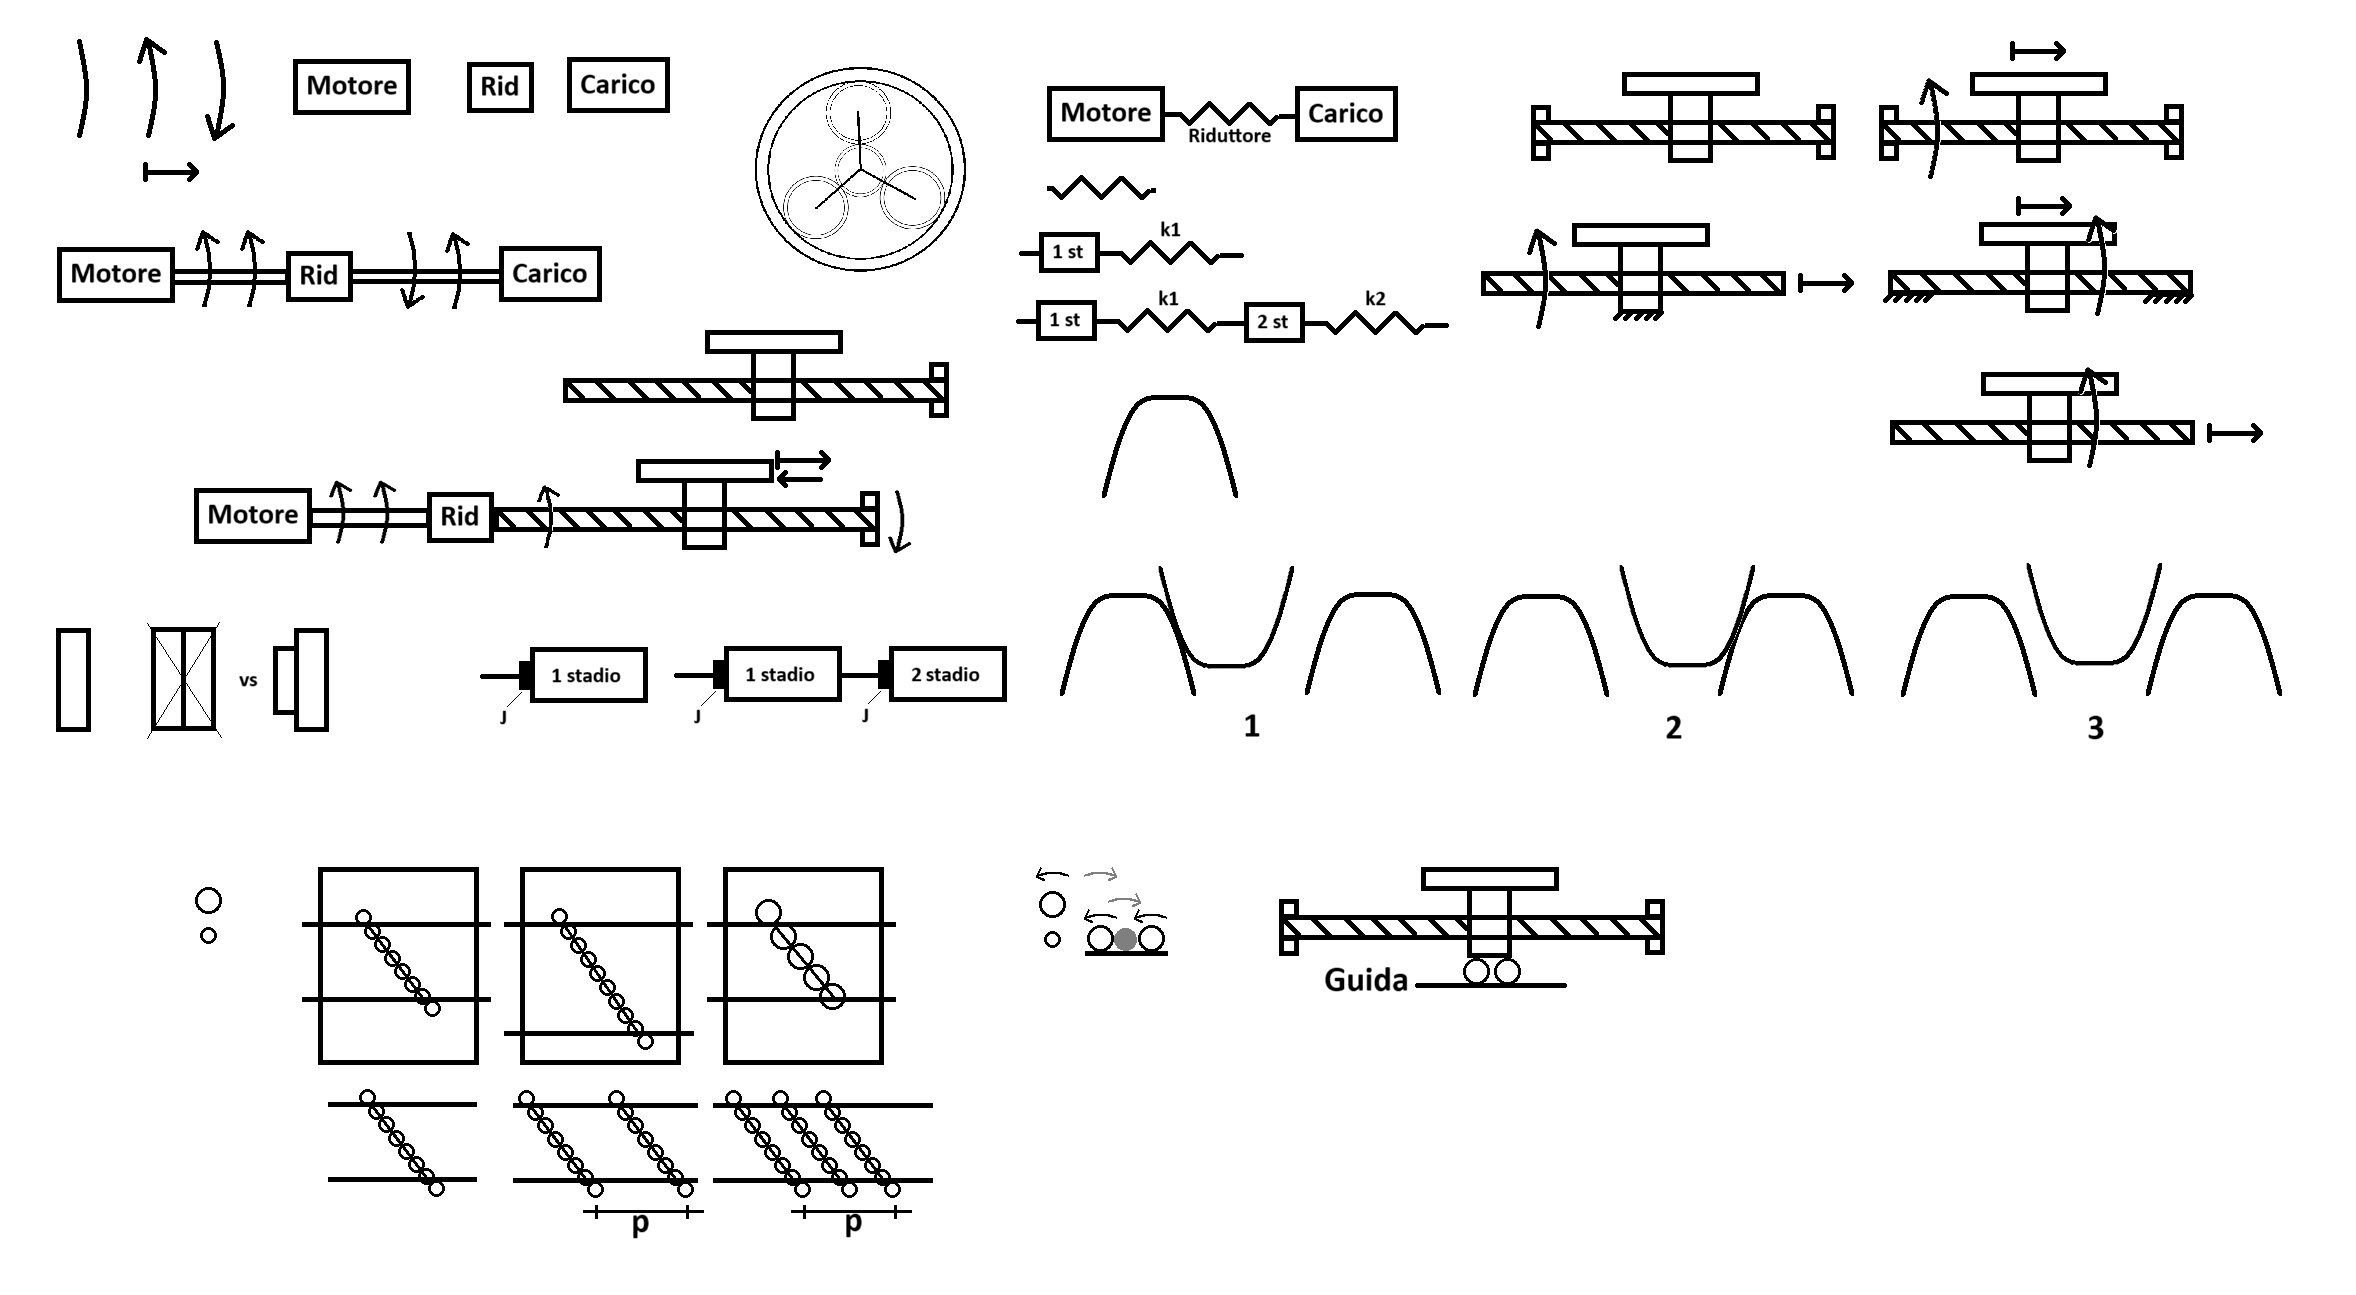
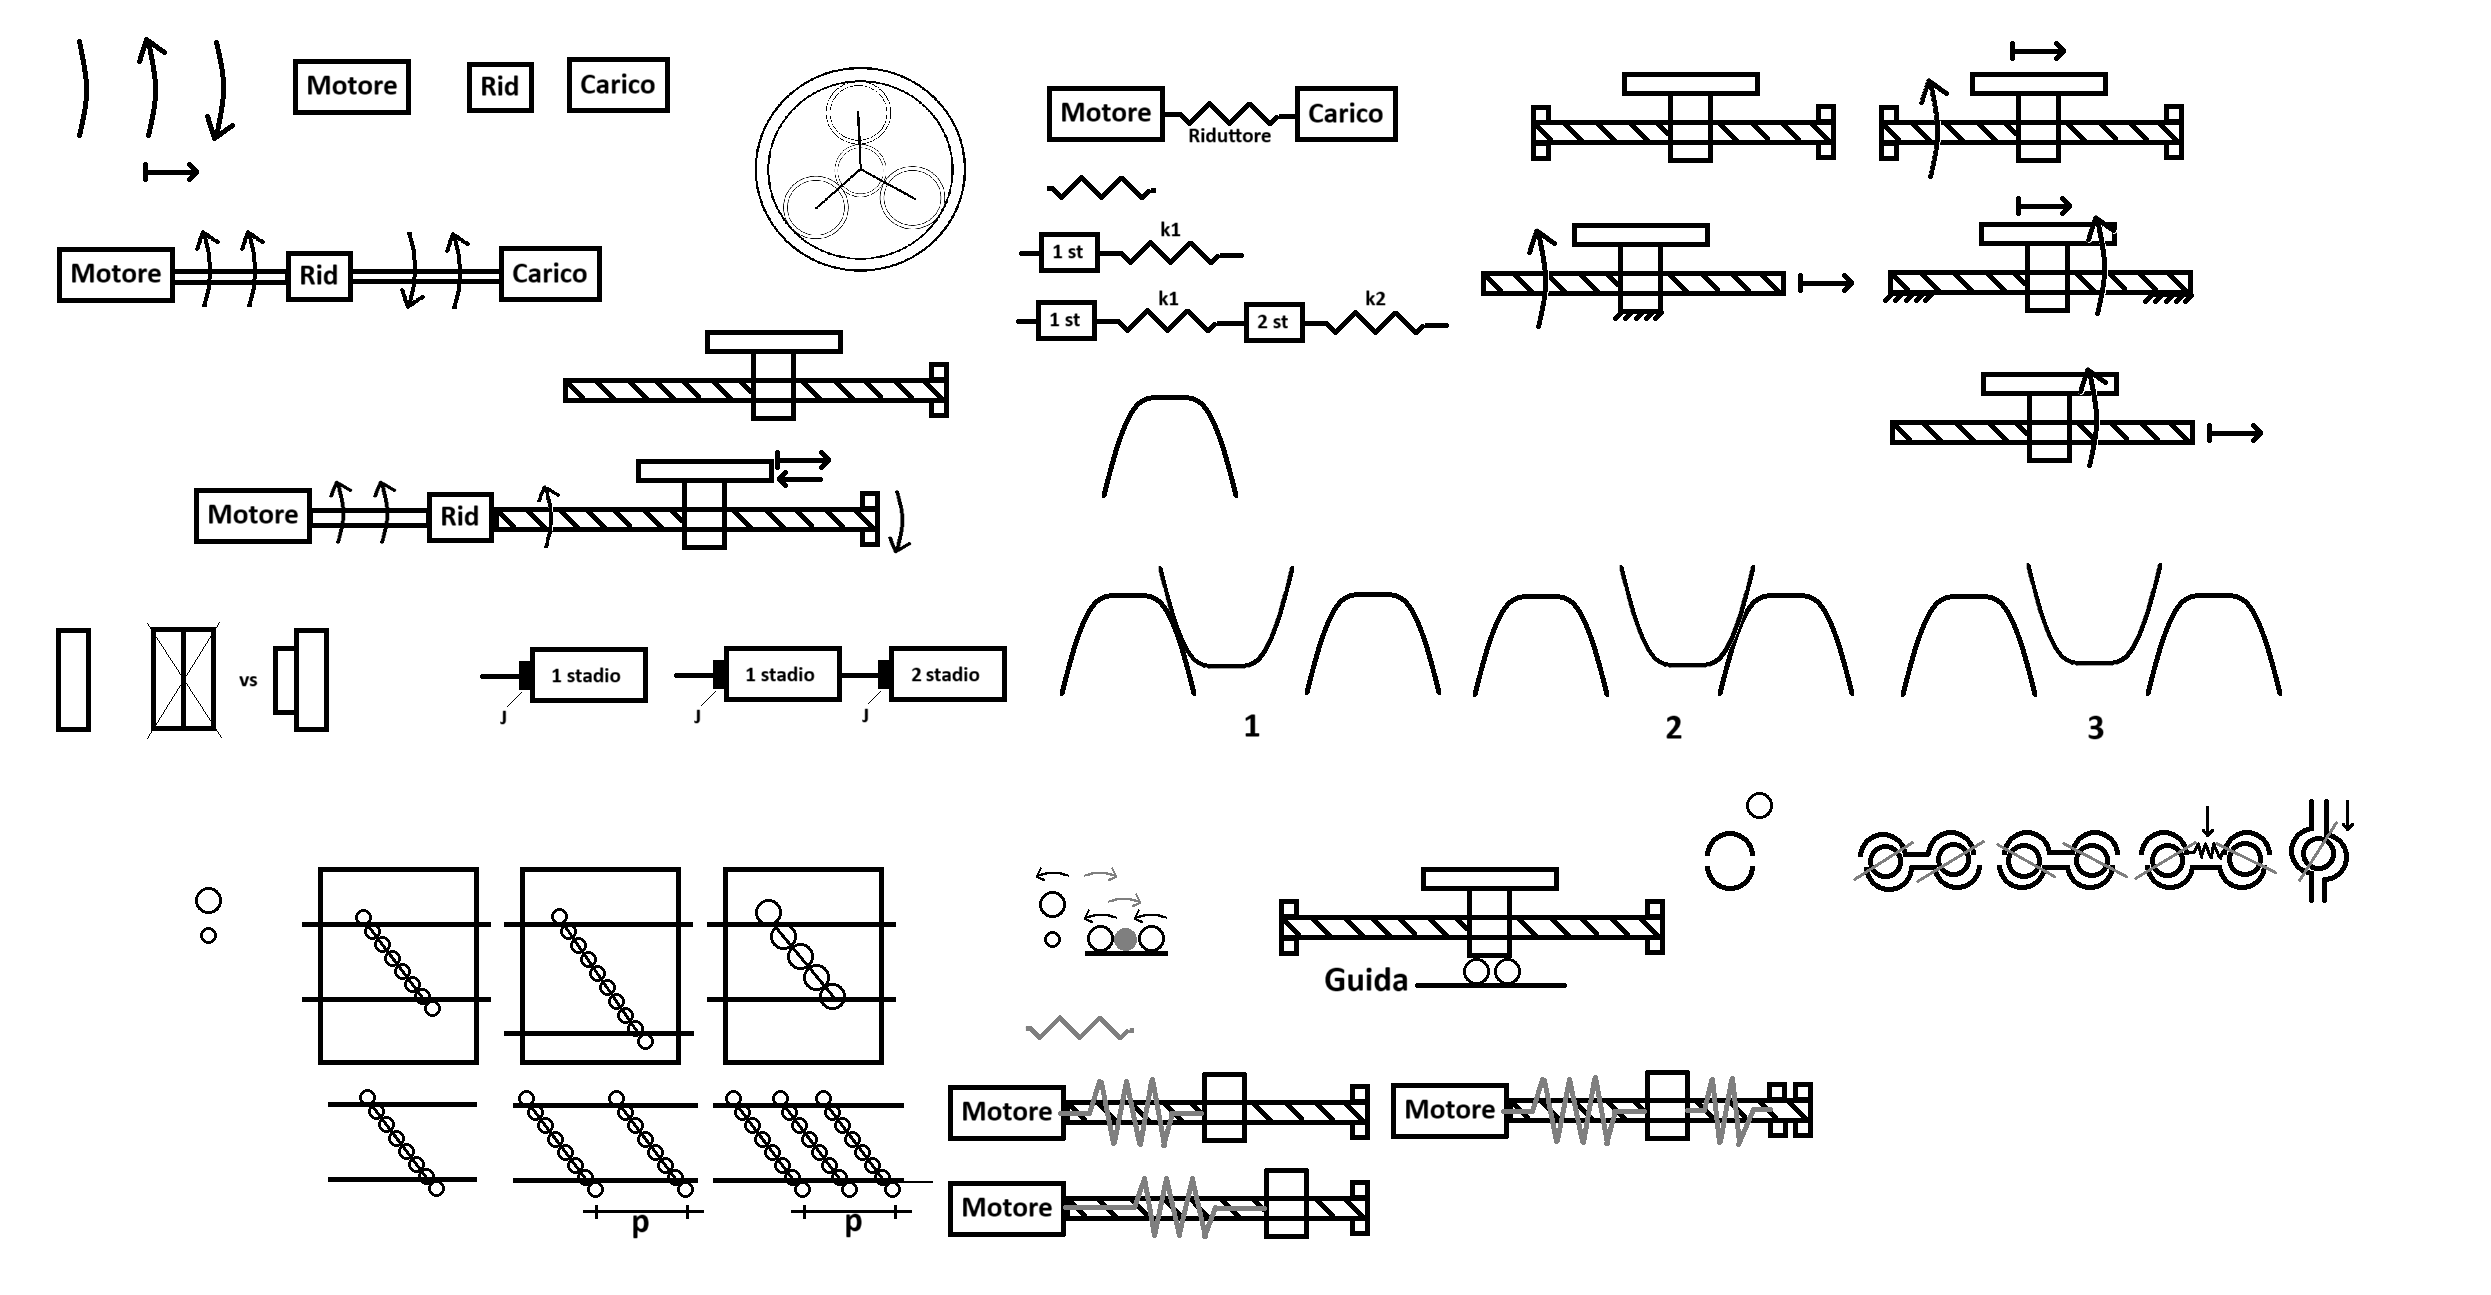
Aggiunte immagini relative a lezioni 11, aggiunto file appendice su main.tex, aggiunto comando per accelerazione assiale su miaclasse

diff --git a/Sottofile/DimensionamentoSceltaViti.tex b/Sottofile/DimensionamentoSceltaViti.tex
@@ -176,7 +176,11 @@ In questo caso la vite viene divisa in due molle equivalenti poste in parallelo,
 La rigidezza ha massimo in corrispondenza di \( K_\text{ass,vite}^\text{max} (x=0,L_v) \rightarrow \infty \), nota bene che se questa rigidezza è infinita, nel calcolo della rigidezza equivalente per il modello a 2gdl i parametri prima ritenuti trascurabili non potranno più esserlo.
 La rigidezza ha minimo in corrispondenza di \(K_\text{ass,vite}^\text{min} = \frac{4EA}{L_v} \).
 
-% inserire immagine esempio rigidezza assiale con unico vincolo e doppio vincolo
+\begin{figure}[h]
+    \centering
+    \includegraphics[width=0.6\textwidth]{Immagini/rigidezza_ass_1vs2_vincoli.png}
+    \caption{Rigidezza per vincoli assiali: unico a sx, doppio a dx}
+\end{figure}
 
 \paragrafo{Usare rigidezza equivalente:}
 Il valore di \(K_eq\) di per sè non crea problemi, tuttavia considerando il modello a 2 gdl e considerando il motore incastrato, si otterrà una pulsazione di antirisonanza \(\omega_z = \sqrt{\frac{K_{eq}}{M_{eq}}}\) relativa alla funzione di trasferimento data da \( \frac{\Theta(s)}{C_m(s)} \).
@@ -193,8 +197,11 @@ Per verificare staticamente una vite si utilizzano due verifiche:
 \end{itemize}
 Tuttavia le verifiche statiche sono meno severe delle verifiche dinamiche, il vincolo che si può trovare in termini di diametro minimo esclude una area di grafico già esclusa dalla velocità critica della vite.
 
-
-% inserire grafico contributi di rigidezza assiale e complessivi di vincoli
+\begin{figure}[h]
+    \centering
+    \includegraphics[width=0.5\textwidth]{Immagini/vincolo_antirisonanza.png}
+    \caption{Rappresentazione vincolo p,d per antirisonanza sx, grafico di tutti i vincoli dx}
+\end{figure}
 
 \sottosezione{Gioco Assiale}
 Prima ancora della scelta di p, d è opportuno scegliere il gioco, che tipicamente è indipendente da p,d perciò nei cataloghi è in sezione a sè stante.
@@ -208,5 +215,8 @@ Utilizzo di Precarico o Shift di passo, in questo caso va introdotto un certo \(
 
 In alcuni casi il sistema è precaricato per configurazione, per esempio quando la vite è posta verticalmente.
 
-
-% inserire figura esempio per gioco e precarico verticale
+\begin{figure}[h]
+    \centering
+    \includegraphics[width=0.4\textwidth]{Immagini/gioco_viti_ricircolo.png}
+    \caption{Gioco nelle viti fig 1,2; precarico fig 3,4}
+\end{figure}

diff --git a/main.tex b/main.tex
@@ -32,7 +32,7 @@
 
 %Roba per il titolo
 \titolo{Appunti di Controllo dei Sistemi Meccanici}
-\autore{Tiziano Costa}
+\autore{Bozza, non condividere}
 %comando della miaclasse per il titolo
 \primapag
 
@@ -44,8 +44,8 @@
 
 
 %se voglio posso mettere l'indice togliendo le percentuali
-%\renewcommand*\contentsname{Indice}
-%\tableofcontents
+\renewcommand*\contentsname{Indice}
+\tableofcontents
 
 %...%
 
@@ -56,5 +56,6 @@
 
 \appendix
 \import{Sottofile/}{Appendice_controlli}
+\import{Sottofile/}{Appendice_MV}
 
 \end{document}
